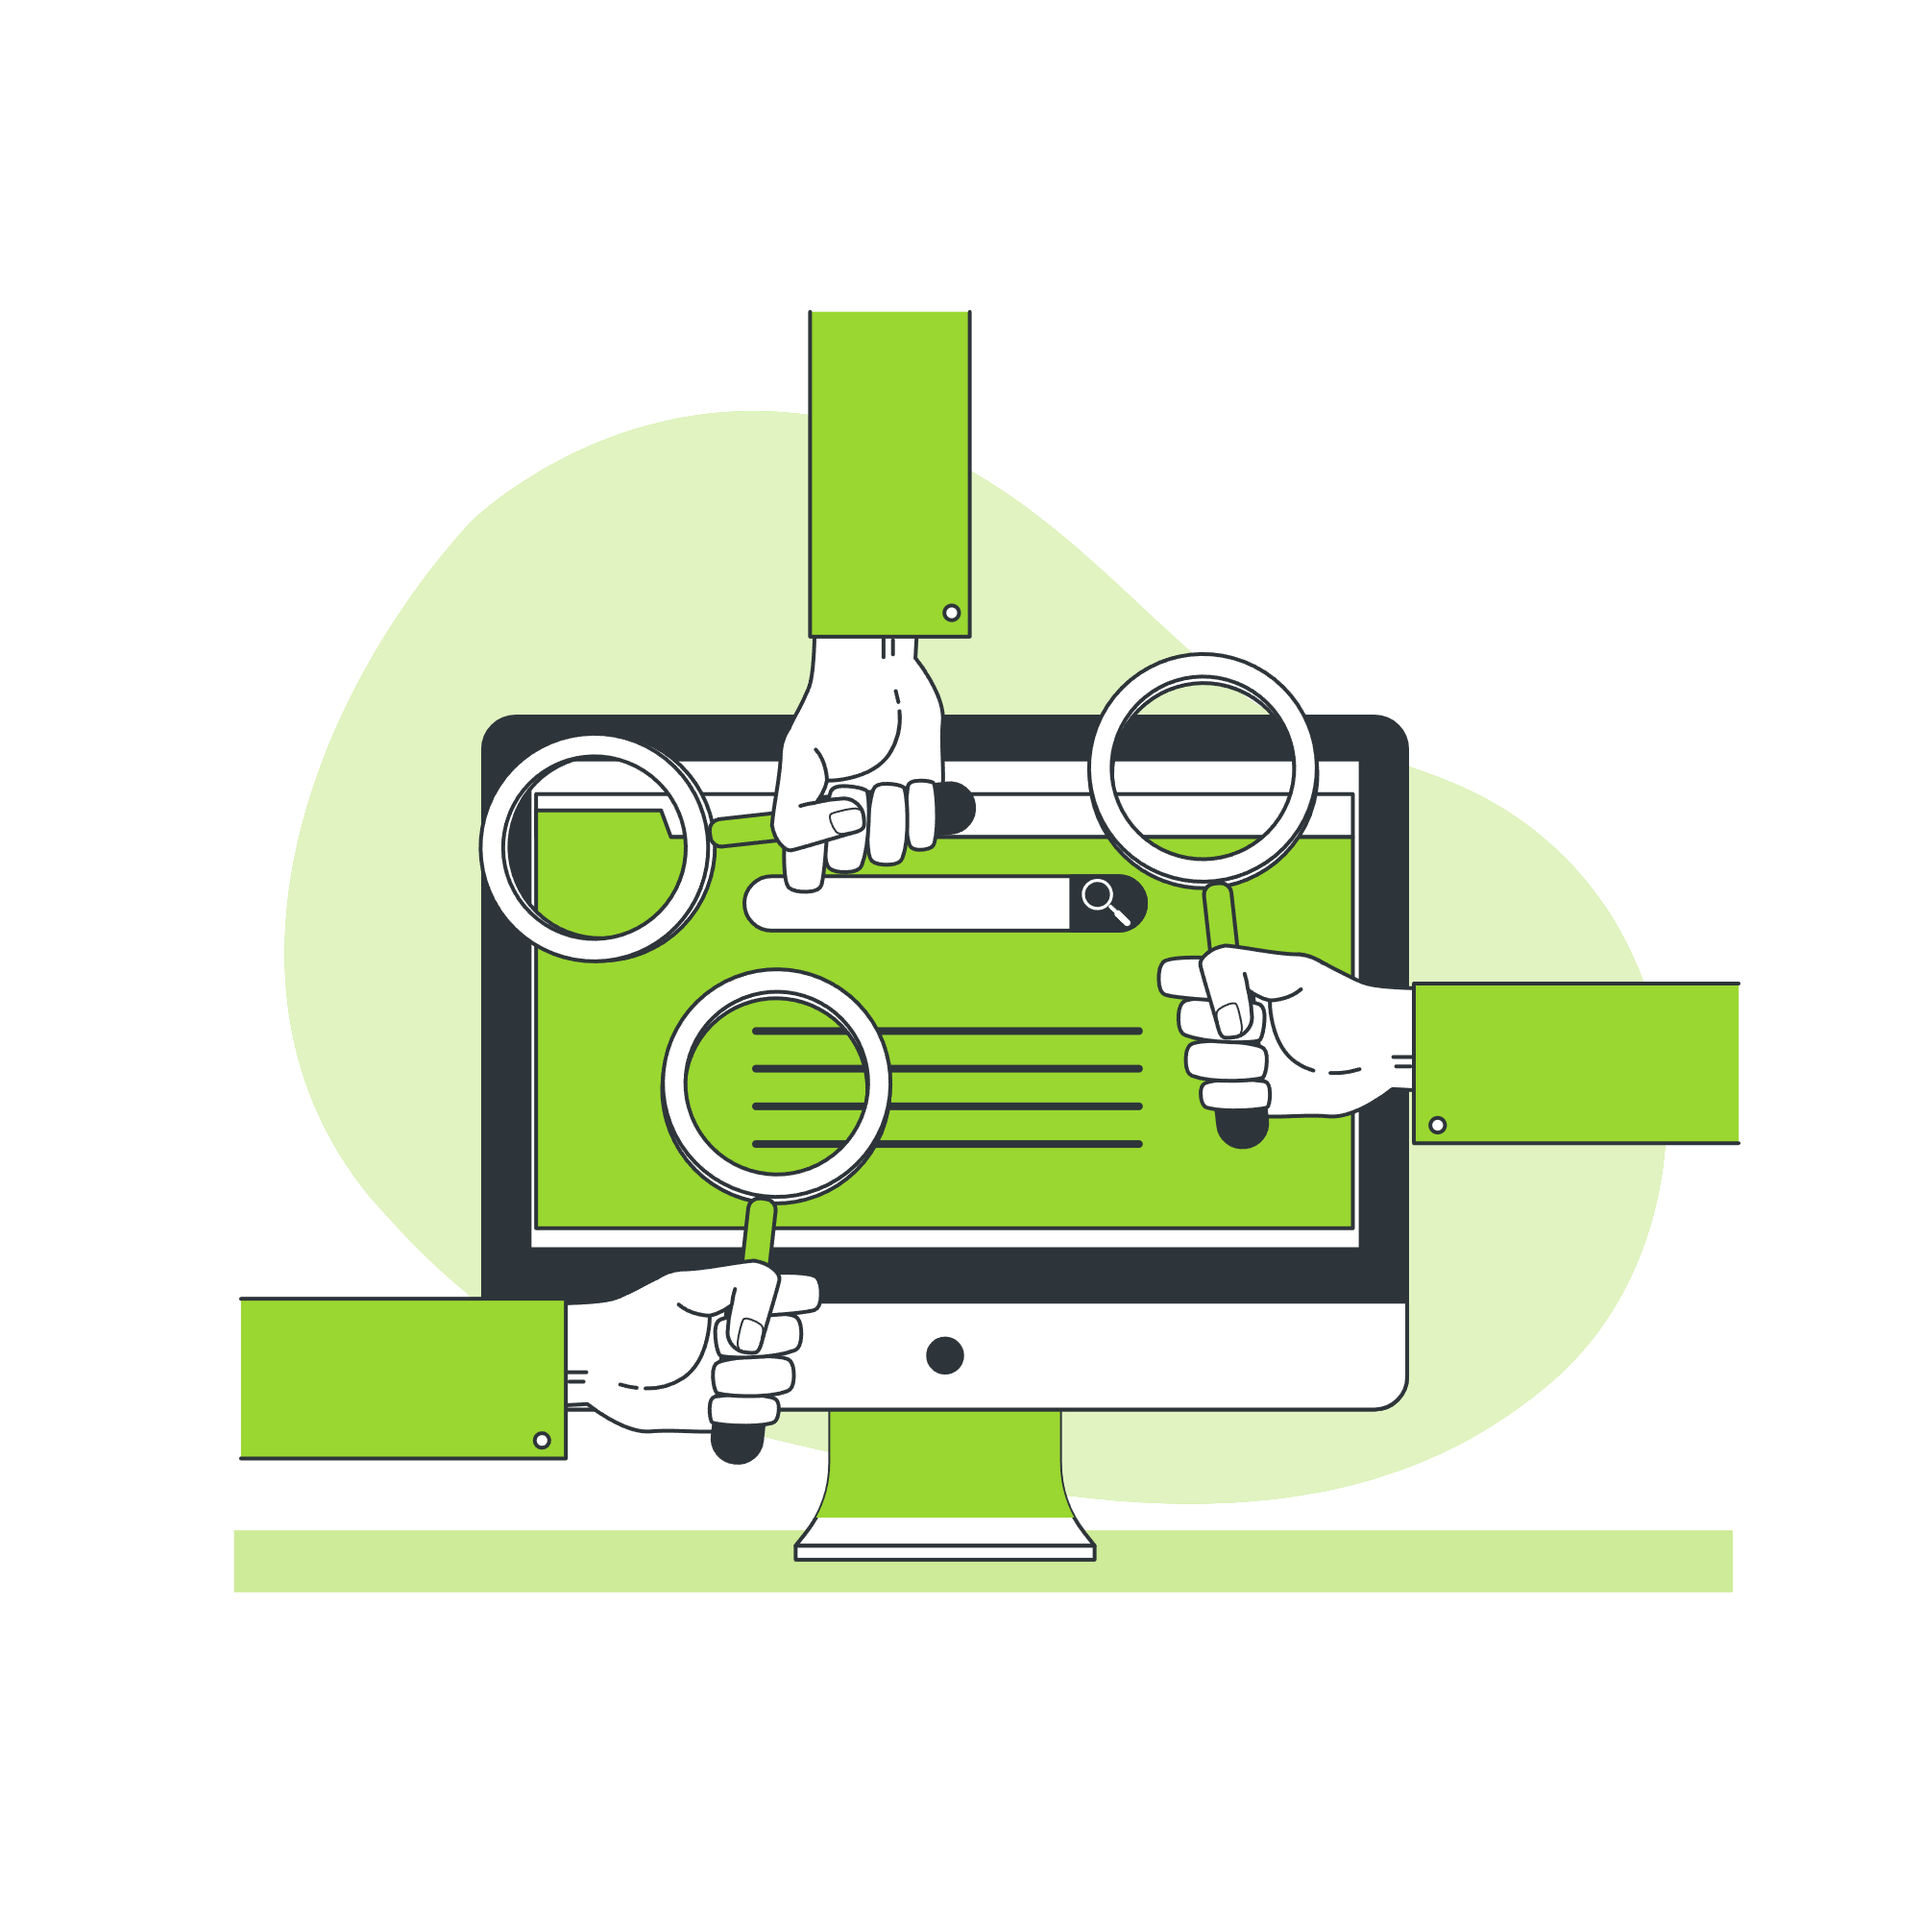
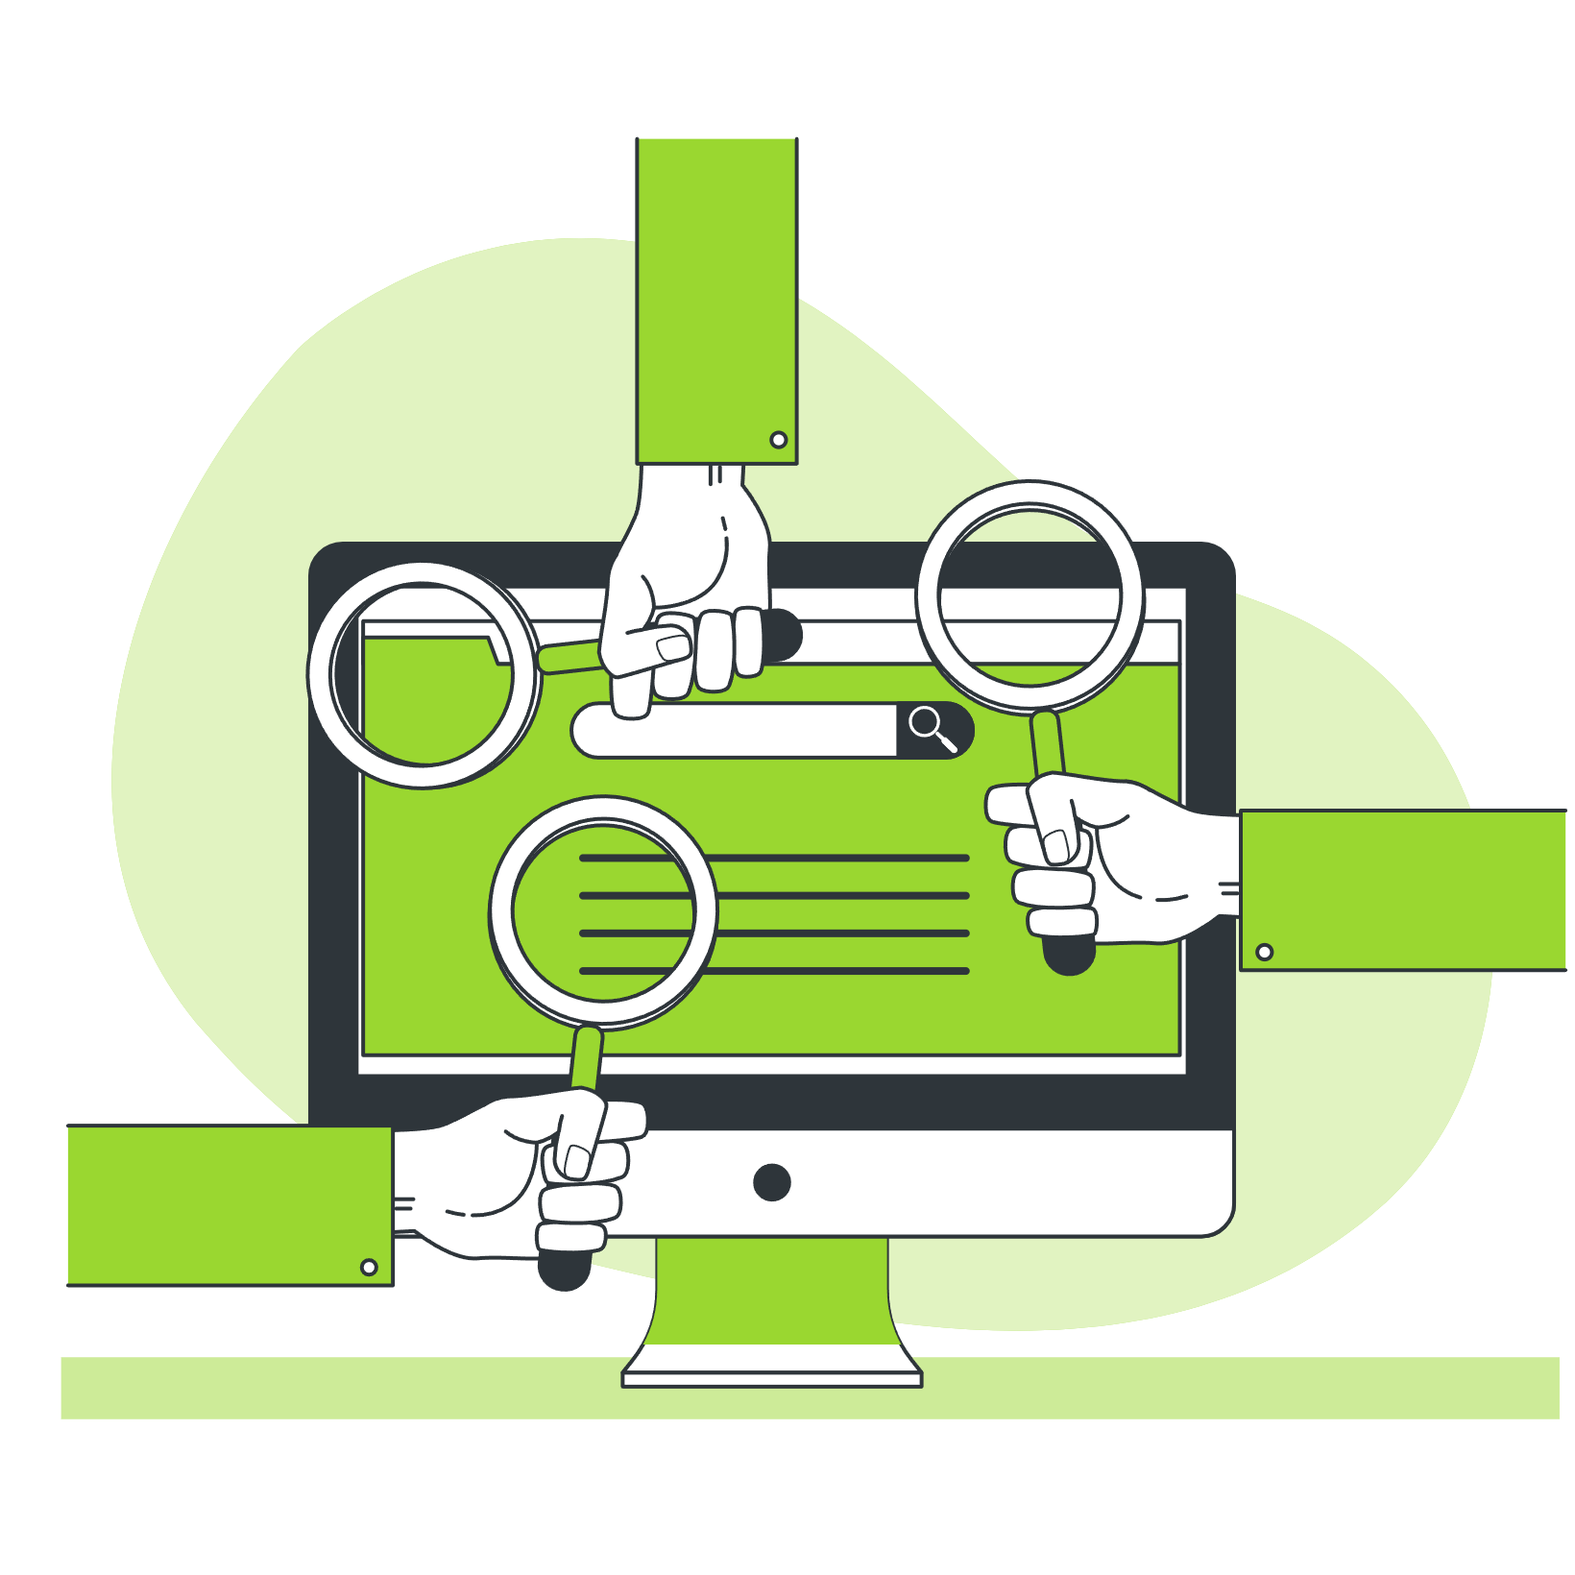
feat(frontend): add EmptyState component and use it in SearchResults screen
- Added EmptyState component with customizable message and optional illustration and button
- Replaced text-based empty state with EmptyState component in SearchResults screen (search/[query].tsx)
- Cropped empty-state.webp to reduce transparent padding while keeping 1:1 ratio

diff --git a/bingelog/components/EmptyState.tsx b/bingelog/components/EmptyState.tsx
@@ -1,0 +1,56 @@
+// Shows an empty state message, optionally with illustration and button
+
+import React from "react";
+import { View, Text, Image } from "react-native";
+import images from "@/constants/images";
+import CTAButton from "./CTAButton";
+
+interface Props {
+  title: string;
+  subtitle: string;
+  buttonTitle?: string;
+  onPress?: () => void;
+  showIllustration?: boolean;
+}
+
+const EmptyState = ({
+  title,
+  subtitle,
+  buttonTitle,
+  onPress,
+  showIllustration = false,
+}: Props) => {
+  return (
+    <View className="h-[76vh] items-center justify-center">
+      {/* Optional illustration */}
+      {showIllustration && (
+        <Image
+          source={images.emptyState}
+          className="w-64 h-64"
+          resizeMode="contain"
+        />
+      )}
+
+      {/* Text content */}
+      <View className="items-center">
+        <Text className="text-foreground font-nunitoBold text-xl text-center">
+          {title}
+        </Text>
+        <Text className="text-foreground-secondary font-nunitoRegular text-base text-center">
+          {subtitle}
+        </Text>
+      </View>
+
+      {/* Optional CTA button */}
+      {buttonTitle && onPress && (
+        <CTAButton
+          title={buttonTitle}
+          onPress={onPress}
+          pressableClassName="mt-8"
+        />
+      )}
+    </View>
+  );
+};
+
+export default EmptyState;

diff --git a/bingelog/app/search/[query].tsx b/bingelog/app/search/[query].tsx
@@ -10,6 +10,7 @@ import { searchMedia } from "@/features/watchlist/searchMedia";
 import { TMDBMediaResult } from "@/features/watchlist/tmdbTypes";
 import SearchResultItem from "@/components/SearchResultItem";
 import Colors from "@/constants/Colors";
+import EmptyState from "@/components/EmptyState";
 
 const SearchResults = () => {
   // Dynamic parameter from the URL, which comes from the [query].tsx file name
@@ -84,11 +85,11 @@ const SearchResults = () => {
 
       {/* Empty state */}
       {!isLoading && !fetchErrorMessage && mediaResults.length === 0 && (
-        <View className="layout-flex-center">
-          <Text className="text-foreground-muted font-nunitoRegular">
-            No results found.
-          </Text>
-        </View>
+        <EmptyState
+          title="No results found"
+          subtitle="Try searching for another movie or show title"
+          showIllustration
+        />
       )}
 
       {/* Results list */}
